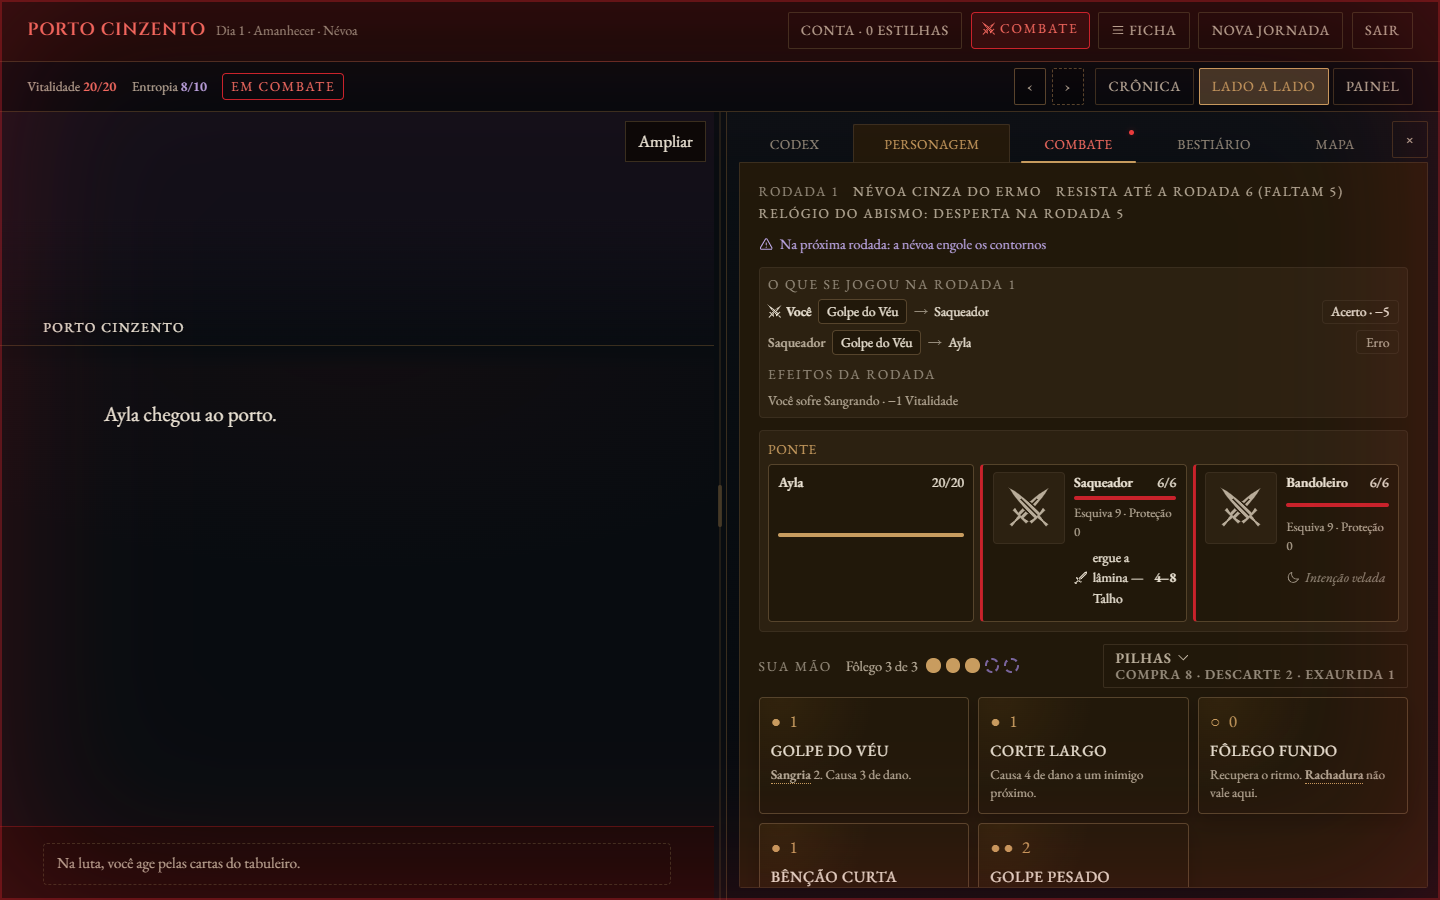
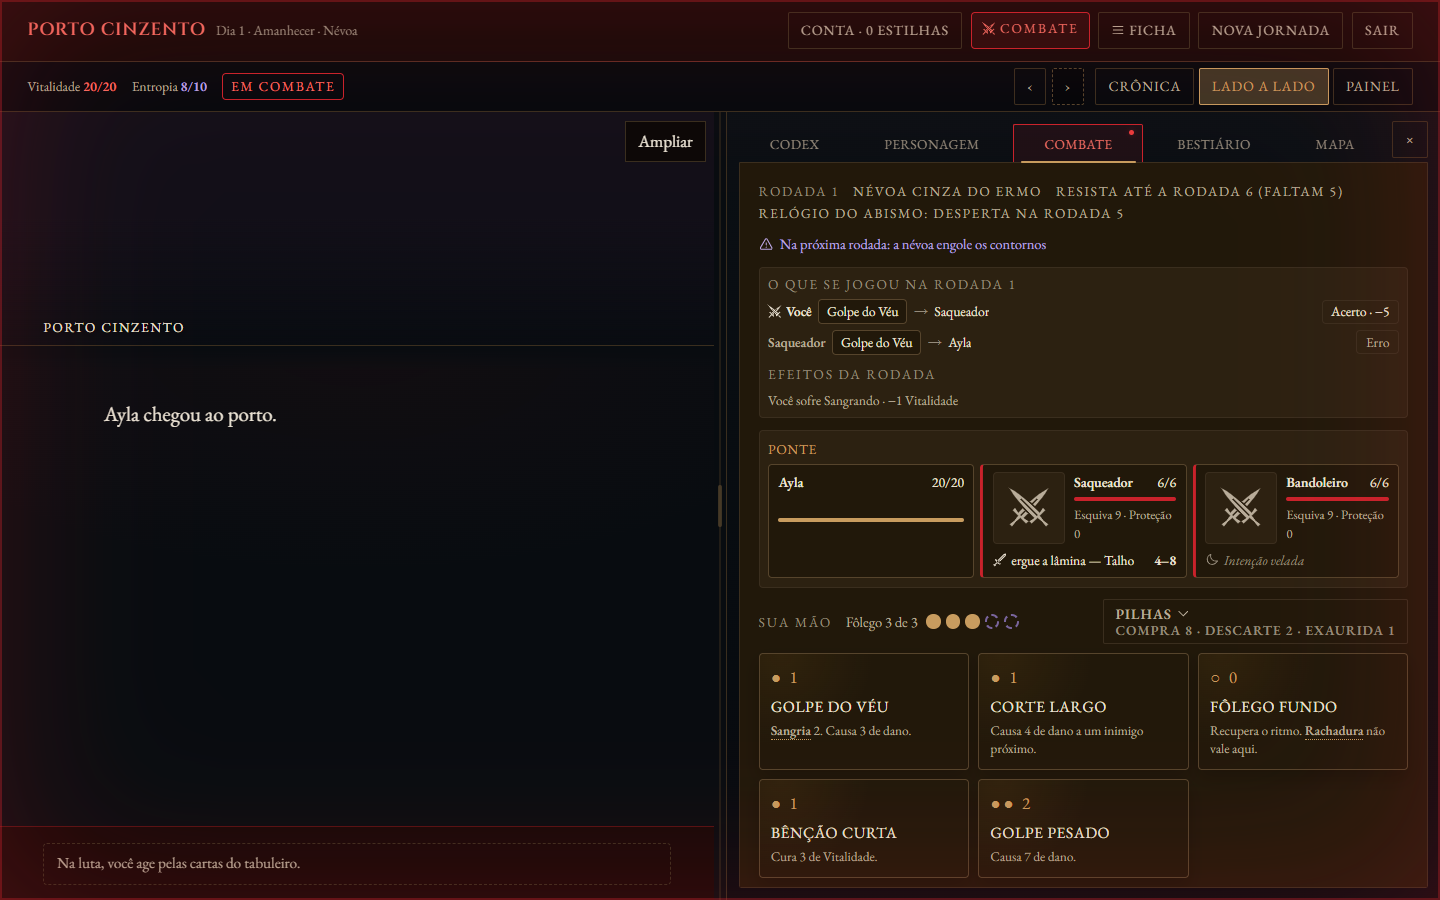
fix: SPEC-354 P2 review items, fora_de_combate reason, remaining prints

diff --git a/web/e2e/spec354-prints.spec.ts b/web/e2e/spec354-prints.spec.ts
@@ -1,7 +1,9 @@
 // SPEC-354 Etapa 7: prints "depois" (RPG_SPEC354_PRINTS=1). Não é gate. Também cobre `retrato_marcador_sem_flag`.
+import { readFileSync } from "node:fs";
 import { test, expect } from "./fixtures";
 import { armDeck, openCombat } from "./deck-342-helpers";
 
+const REAL = JSON.parse(readFileSync(new URL("./fixtures/spec354/save-real.json", import.meta.url), "utf-8"));
 const OUT = "../docs/spec354/depois";
 const base = { ator_id: "player", ator_nome: "Ayla", lado: "heroi", carta_id: "golpe", carta_nome: "Golpe do Véu", alvo_id: "e1", alvo_nome: "Saqueador", origem: "turno", rotulo: null, resultado: "acerto", dano: 5, efeito: null };
 const log = [base, { ...base, ator_id: "e1", ator_nome: "Saqueador", lado: "inimigo", alvo_id: "player", alvo_nome: "Ayla", resultado: "erro", dano: null },
@@ -32,5 +34,61 @@ test.describe("prints extras", () => {
     state.combat.scene.positions.push({ participant_id: "npc_ketil", participant_name: "npc_ketil", zone_id: "ponte", distance: "proximo", posture: "neutro", concealment: "visivel", engaged_with: [], engaged_names: [] } as never);
     await openCombat(page);
     await page.screenshot({ path: `${OUT}/390-arena-aliado.png` });
+  });
+});
+
+for (const [label, viewport, touch] of [["1440", { width: 1440, height: 900 }, false], ["390", { width: 390, height: 844 }, true]] as const) {
+  test.describe(`prints ${label}`, () => {
+    test.skip(!process.env.RPG_SPEC354_PRINTS, "prints sob demanda (RPG_SPEC354_PRINTS=1)");
+    test.use({ viewport, hasTouch: touch, isMobile: touch, reducedMotion: "no-preference" });
+
+    test(`${label}-reaberto`, async ({ page, backend }) => {
+      const gid = REAL.saves[0].game_id;
+      backend.saves = REAL.saves; backend.states.clear(); backend.states.set(gid, structuredClone(REAL.state));
+      backend.histories.clear(); backend.histories.set(gid, REAL.history);
+      await page.goto("/");
+      await page.getByRole("heading", { name: "Continuar jornada" }).waitFor();
+      await page.getByRole("button", { name: /^Batatof/ }).dispatchEvent("click");
+      await expect(page.locator("article.msg")).toHaveCount(REAL.history.length);
+      if (touch) await page.locator("nav.mtabbar").getByRole("button", { name: "Crônica" }).dispatchEvent("click");
+      await page.waitForTimeout(1200);
+      await page.screenshot({ path: `${OUT}/${label}-reaberto.png` });
+    });
+
+    test(`${label}-pos-combate`, async ({ page, backend }) => {
+      const state = armDeck(backend, { roundLog: log });
+      delete (state.combat as { pilhas?: unknown }).pilhas;
+      state.combat.active = false; state.combat.phase = "ended"; state.combat.outcome = "victory"; state.combat.enemies = []; state.combat.round = 3;
+      state.turn_outcome = { receipt_id: "rc-5", turn: 5, xp_delta: 50, level_delta: 0, gold_delta: 20, items_gained: [], quests_completed: [], source: "combat" } as never;
+      state.combat_result = { encounter_id: "game-a:0:1", outcome: "victory", participants: [{ participant_id: "e1", species_label: "Saqueador", final_status: "morto" }],
+        xp_event_ref: "rc-5", loot_ref: null, ended_round: 3, result_event_id: "res-5" } as never;
+      backend.histories.get("game-a")!.push({ id: "a-final", turn: 5, epoch: 1, role: "narrator", text: "O último saqueador tomba sobre a ponte e a névoa devolve o silêncio ao vale.", type: "STORY" });
+      await page.goto("/");
+      await page.getByRole("heading", { name: "Continuar jornada" }).waitFor();
+      await page.getByRole("button", { name: /^Ayla/ }).dispatchEvent("click");
+      const tab = page.getByRole("tab", { name: "Combate" });
+      await page.waitForTimeout(1500);
+      if (await tab.first().isVisible().catch(() => false)) await tab.first().dispatchEvent("click");
+      else if (touch) await page.locator("nav.mtabbar").getByRole("button", { name: /^Combate/ }).dispatchEvent("click");
+      await expect(page.getByText("A última rodada", { exact: true })).toBeVisible();
+      await page.screenshot({ path: `${OUT}/${label}-pos-combate.png` });
+    });
+  });
+}
+
+test.describe("print fila 390", () => {
+  test.skip(!process.env.RPG_SPEC354_PRINTS, "prints sob demanda (RPG_SPEC354_PRINTS=1)");
+  test.use({ viewport: { width: 390, height: 640 }, hasTouch: true, isMobile: true });
+  test("390-fila", async ({ page, backend }) => {
+    armDeck(backend, { nonlethal: true, roundLog: log });
+    await openCombat(page);
+    for (const id of ["golpe", "corte"]) {
+      await page.locator(`.deck-card[data-card="${id}"]`).dispatchEvent("click");
+      await page.locator("button[data-target='e1']").dispatchEvent("click").catch(() => {});
+      await page.locator("[data-play-confirm]").dispatchEvent("click");
+    }
+    await page.locator("[data-spare]").dispatchEvent("click");
+    await page.waitForTimeout(500);
+    await page.screenshot({ path: `${OUT}/390-fila.png` });
   });
 });

diff --git a/web/src/combat/Arena.tsx b/web/src/combat/Arena.tsx
@@ -13,6 +13,8 @@ export function buildParticipants(combat: CombatBlock, party: PartyMember[], npc
   // SPEC-354 R9: nunca um id cru ("npc_ketil") como nome — grupo, NPC conhecido, rótulo da espécie, id humanizado.
   const ctx = { party, npcs, labels };
   const nm = (raw: string | null | undefined, id: string) => displayName(raw, id, ctx);
+  // P2-5: inimigo nunca casa com membro do grupo (um "enemy_lobo_1" não vira o aliado "Lobo Cinzento").
+  const nmEnemy = (raw: string | null | undefined, id: string) => displayName(raw, id, { ...ctx, party: undefined, npcs: undefined });
   const engaged = (names: string[] | undefined) => (names ?? []).map((n) => nm(n, n));
   const out: Array<Participant & { zoneId: string }> = [];
   const player = pos.get("player");
@@ -26,7 +28,7 @@ export function buildParticipants(combat: CombatBlock, party: PartyMember[], npc
   for (const enemy of combat.enemies) {
     const p = pos.get(enemy.id);
     out.push({
-      id: enemy.id, name: nm(enemy.name, enemy.id), role: "enemy",
+      id: enemy.id, name: nmEnemy(enemy.name, enemy.id), role: "enemy",
       vit: enemy.vitalidade, max: enemy.max_vitalidade, esquiva: enemy.esquiva, protecao: enemy.protecao,
       conditions: enemy.conditions,
       intel: [...enemy.revealed_cards.map((c) => c.name), ...enemy.revealed_resistances],

diff --git a/web/src/workspace/Workspace.tsx b/web/src/workspace/Workspace.tsx
@@ -167,8 +167,10 @@ export const Workspace = forwardRef<WorkspaceHandle, Props>(function Workspace(p
   }, [fighting]);
   const streamingNow = log.some((entry) => entry.streaming);
   // SPEC-354 R4.3: a última narração terminada (o desfecho do conflito) para o painel de Combate encerrado.
-  const lastNarrationEntry = [...log].reverse().find((e) => e.role === "narrator" && !e.streaming && e.text.trim());
-  const lastNarration = lastNarrationEntry?.text.replace(/[*_#>`]/g, "").trim();
+  // P2-4: só a ÚLTIMA entrada do Livro, e só se for narração pronta — em fluxo (ou ainda sem resposta) não mostra a anterior.
+  const lastEntry = log[log.length - 1];
+  const lastNarration = lastEntry && lastEntry.role === "narrator" && !lastEntry.streaming && lastEntry.text.trim()
+    ? lastEntry.text.replace(/[*_#>`]/g, "").trim() : undefined;
   useEffect(() => {
     if (!awaitingNarration || !shouldAutoOpenCombat(false, true, !thinking && !streamingNow)) return;
     let second = 0;

diff --git a/web/src/components/combat/RoundBoard.tsx b/web/src/components/combat/RoundBoard.tsx
@@ -55,7 +55,7 @@ export function RoundBoard({ entries, round, title }: { entries: RoundLogEntry[]
           {effects.length > 0 && <ol className="roundboard__list roundboard__list--efeitos">{effects.map((e, i) => <EffectRow key={i} e={e} />)}</ol>}
         </details>
       )}
-      <p className="sr-only" role="status" aria-live="polite">{`Rodada resolvida: ${entries.length} ${entries.length === 1 ? "jogada" : "jogadas"}.`}</p>
+      <p className="sr-only" role="status" aria-live="polite">{`Rodada resolvida: ${plays.length} ${plays.length === 1 ? "jogada" : "jogadas"}${effects.length ? ` e ${effects.length} ${effects.length === 1 ? "efeito" : "efeitos"}` : ""}.`}</p>
     </section>
   );
 }

diff --git a/web/e2e/spec354-pos-combate.spec.ts b/web/e2e/spec354-pos-combate.spec.ts
@@ -33,7 +33,6 @@ for (const [label, viewport, touch] of [["1440", { width: 1440, height: 900 }, f
       const read = page.getByRole("button", { name: "Ler na Crônica" });
       if (touch) expect((await measure(read)).h).toBeGreaterThanOrEqual(43.5);
       const cont = page.getByRole("button", { name: "Continuar" });
-      await cont.scrollIntoViewIfNeeded();
       const c = await measure(cont);
       expect(c.free && c.inView, JSON.stringify(c)).toBe(true);
       await read.dispatchEvent("click");

diff --git a/web/src/types.ts b/web/src/types.ts
@@ -304,7 +304,7 @@ export interface CardView {
 }
 
 export type InvalidReason = "not_prepared" | "spent_frequency" | "no_entropy" | "cooldown" |
-  "no_valid_target" | "target_dead" | "target_hidden" | "out_of_zone" | "not_your_turn" | "combat_inactive";
+  "no_valid_target" | "target_dead" | "target_hidden" | "out_of_zone" | "not_your_turn" | "combat_inactive" | "fora_de_combate";
 
 export interface BasicActionView {
   kind: "attack" | "maneuver" | "pass" | "flee";

diff --git a/web/src/combat/displayName.ts b/web/src/combat/displayName.ts
@@ -19,7 +19,7 @@ export function humanizeId(id: string): string {
   return words.join(" ") || id;
 }
 
-interface Ctx { party?: PartyMember[]; npcs?: GameResponse["npcs"]; labels?: Map<string, string> }
+export interface Ctx { party?: PartyMember[]; npcs?: GameResponse["npcs"]; labels?: Map<string, string> }
 
 /** Nome exibível: `raw` quando é um nome de verdade; senão o grupo, os NPCs conhecidos, o rótulo da espécie e,
  *  por fim, o id humanizado. */

diff --git a/web/src/combat/targeting.ts b/web/src/combat/targeting.ts
@@ -13,6 +13,7 @@ export const REASON_TEXT: Record<InvalidReason, string> = {
   out_of_zone: "Alvo fora de alcance",
   not_your_turn: "Não é a sua vez",
   combat_inactive: "Sem combate ativo",
+  fora_de_combate: "Ofício de estrada, não de lâmina: não serve na luta",
 };
 
 export const BASIC_LABEL: Record<string, string> = {

diff --git a/tests/test_spec354_final_round_view.py b/tests/test_spec354_final_round_view.py
@@ -15,6 +15,8 @@ def _ended(monkeypatch, mode="on"):
     meta["active"] = False
     meta["phase"] = "ended"
     meta["last_round_board"] = list(BOARD)
+    meta["result"] = {"outcome": "victory", "xp_event_ref": "rc-1", "result_event_id": "res-1"}
+    state["last_turn_outcome"] = {"receipt_id": "rc-1", "turn": 1}
     return state
 
 
@@ -32,4 +34,10 @@ def test_active_combat_without_piles_has_no_board(monkeypatch):
     state = _ended(monkeypatch)
     state["combat"]["active"] = True
     state["combat"]["phase"] = "player"
+    assert "registro_rodada" not in api._combat_block(state)
+
+
+def test_next_turn_after_the_end_has_no_board(monkeypatch):
+    state = _ended(monkeypatch)
+    state["last_turn_outcome"] = {"receipt_id": "rc-2", "turn": 2}  # outro turno: o resultado já não é o do término
     assert "registro_rodada" not in api._combat_block(state)

diff --git a/api.py b/api.py
@@ -3192,7 +3192,7 @@ def _combat_block(state: dict) -> dict[str, Any]:
         _piles.mode() == "on"
         and meta.get("last_round_board")
         and not meta.get("active")
-        and (meta.get("phase") == "ended" or _combat_result(state))
+        and _combat_result(state)  # só no turno de término (e no reload antes de "Continuar")
     ):
         # SPEC-354 R4.1 (D-354-4): o conflito acabou (pilhas apagadas) — o registro da rodada final
         # continua visível no painel de Combate; some quando o próximo conflito começar (meta novo).
